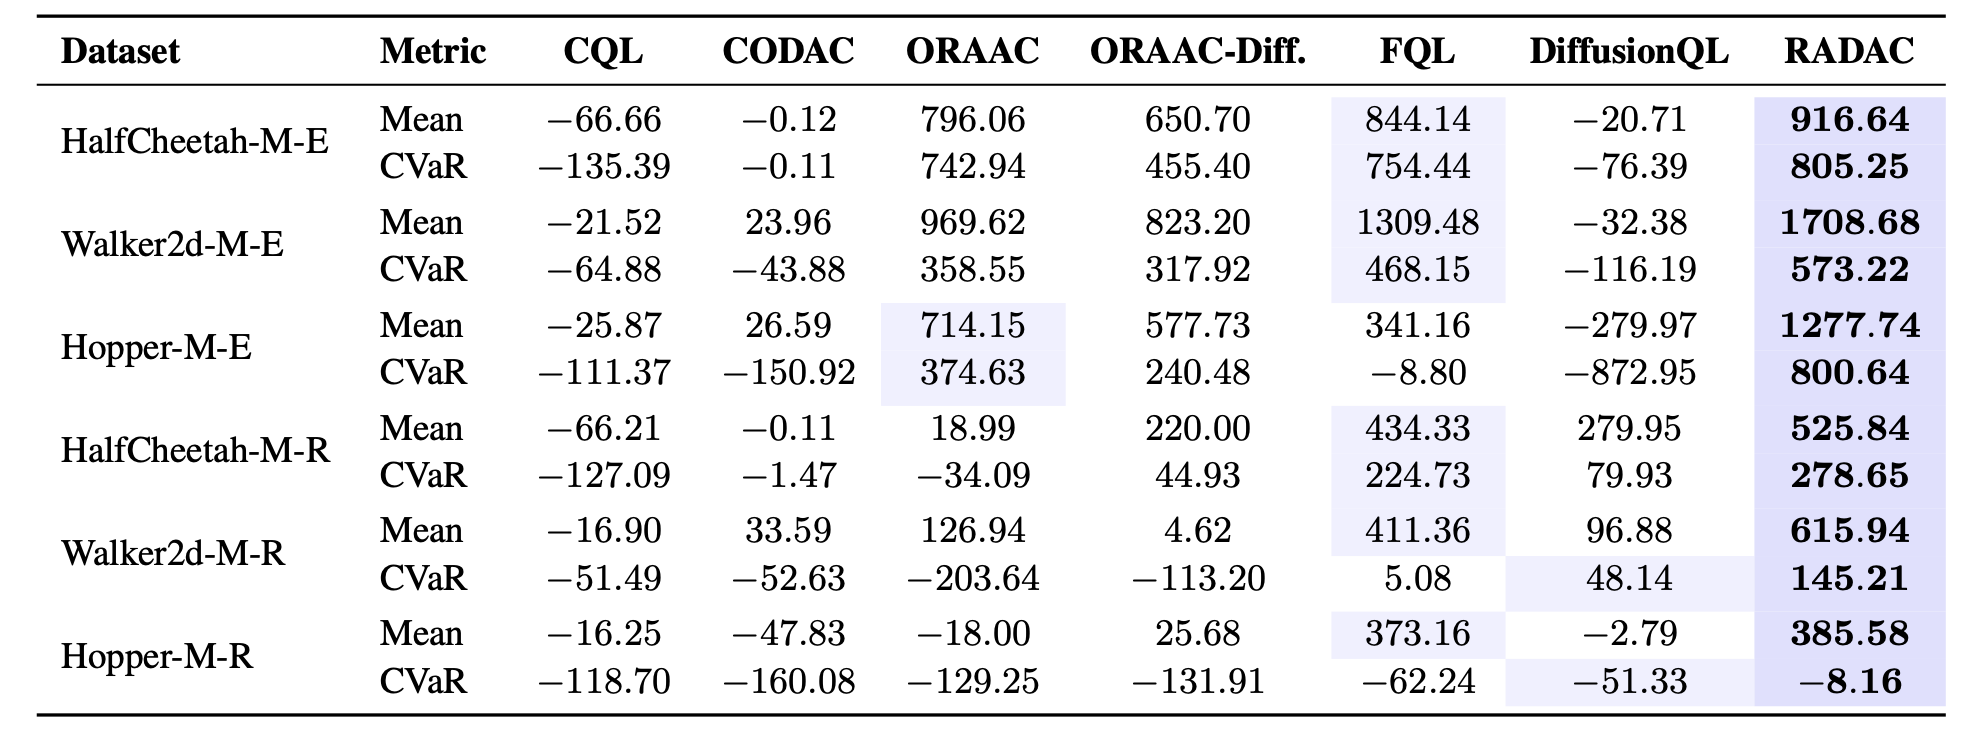
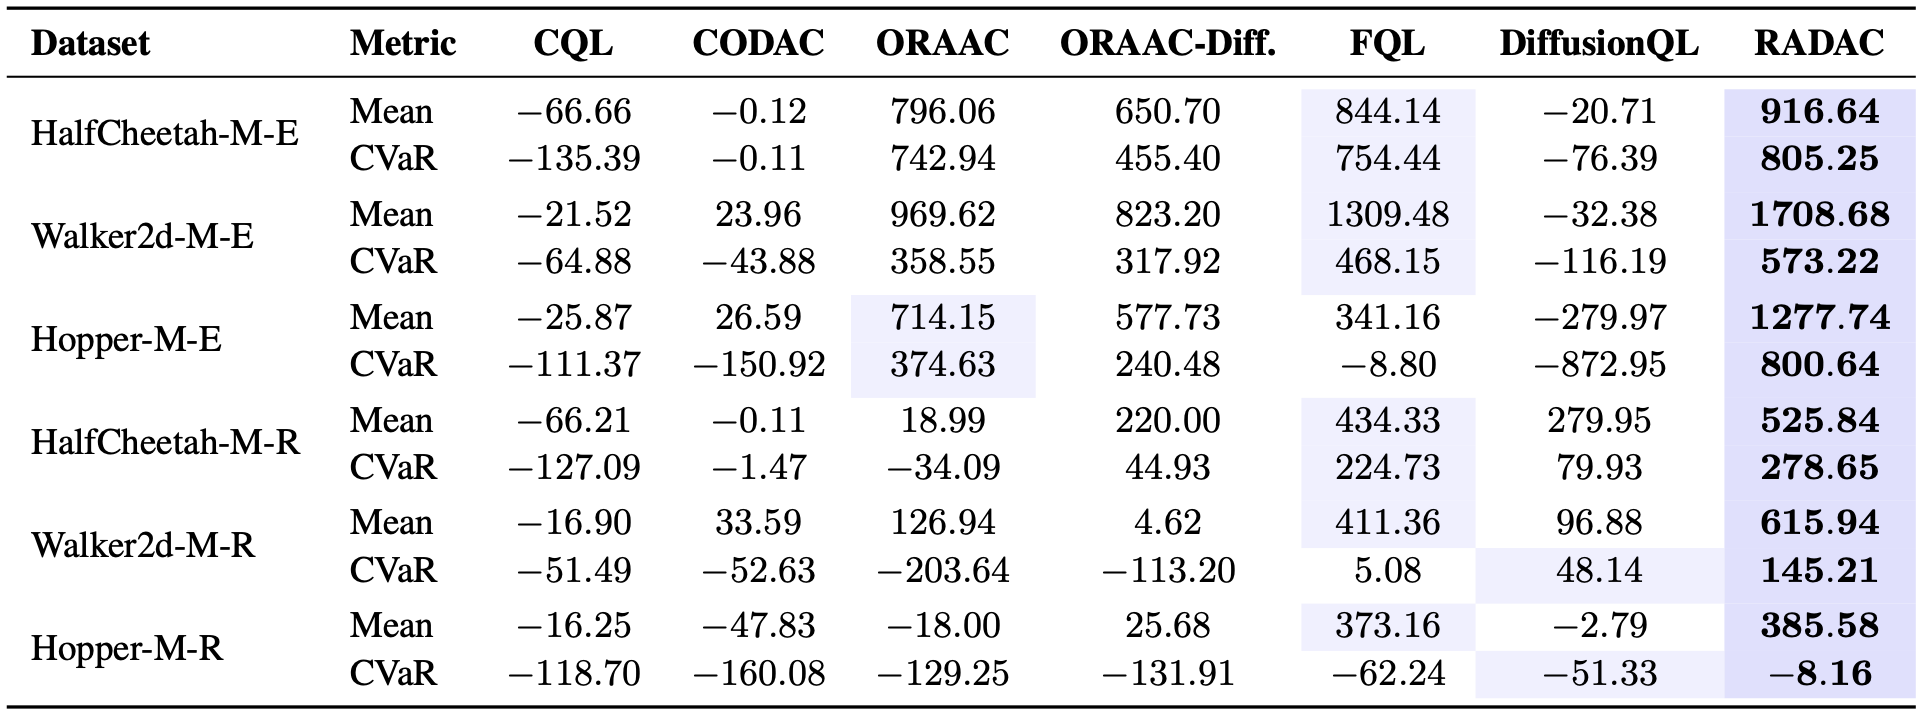
Crop D4RL results image margins

diff --git a/index.html b/index.html
@@ -33,7 +33,7 @@
       })"
     ></script>
 
-    <link rel="stylesheet" href="styles.css?v=gif-render-sync-v75" />
+    <link rel="stylesheet" href="styles.css?v=d4rl-crop-v76" />
   </head>
   <body>
     <a href="#overview" class="skip-link">Skip to content</a>